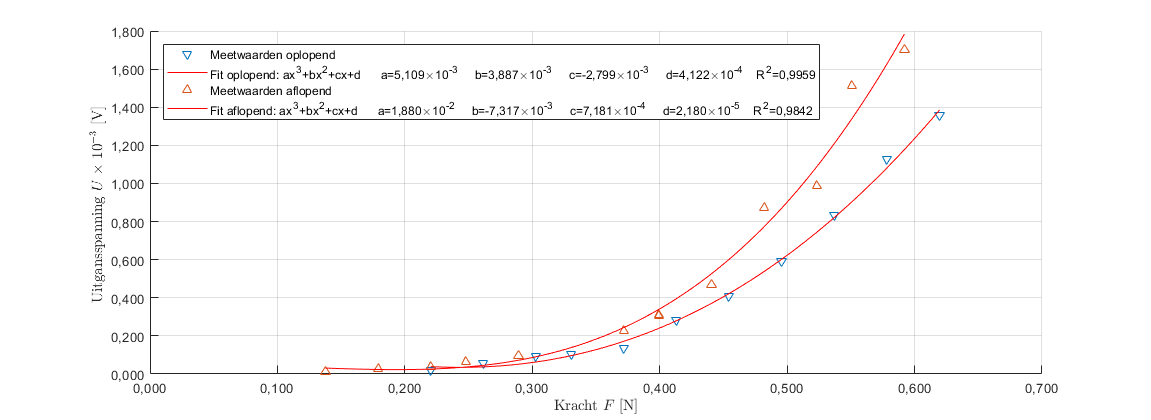
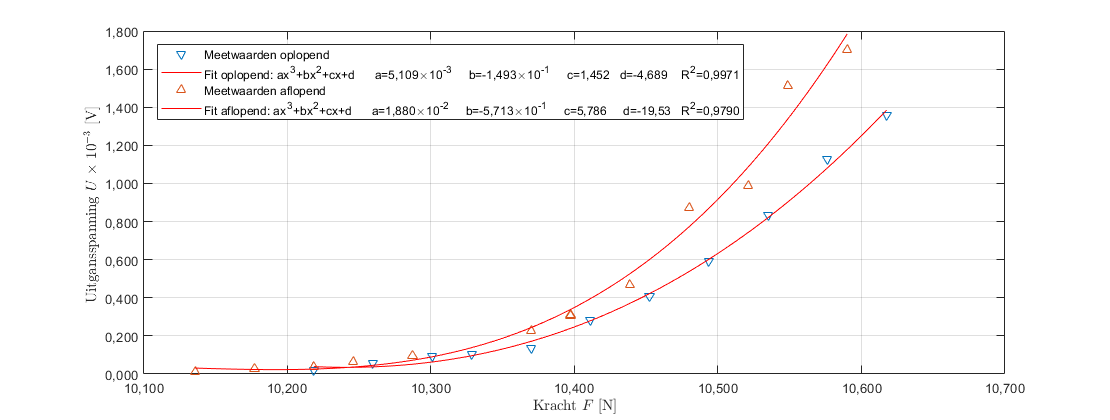
piezo final

diff --git a/Data/VO/frequentie metingen/resultaat.m b/Data/VO/frequentie metingen/resultaat.m
@@ -16,7 +16,7 @@ m_tot = massa + rust_massa;
 
 % kracht = omega.^2*r.*m_tot;
 a_z = r*omega;
-kracht = m_tot*a_z;
+kracht = m_tot*(a_z+9.81);
 
 % Hysteresis zichtbaar, dus arrays splitten voor heen en terugweg
 
@@ -39,11 +39,11 @@ gemeten_spanning_terug = gemeten_spanning(12:24);
 ft = fittype( 'poly3' );
 
 % Fit model to data.
-[fitresult1, gof] = fit( xData, yData, ft );
+[fitresult, gof] = fit( xData, yData, ft );
 
 % Plot fit with data.
+h = plot( fitresult, xData, yData, 'v' );
 hold on
-h1 = plot( fitresult1, xData, yData, 'v');
 %--------------------------------eind fit heen
 % -------------------------------Start fit terug
 %% Fit: 'untitled fit 1'.
@@ -61,12 +61,12 @@ h2 = plot( fitresult2, xData, yData, '^')
 hold on
 
 % labels & legend zelf aanpassen in createFit
-legend_fit_laaghoog = 'Fit oplopend: ax^3+bx^2+cx+d      a=5,109\times10^{-3}     b=3,887\times10^{-3}     c=-2,799\times10^{-3}     d=4,122\times10^{-4}    R^2=0,9959'
-legend_fit_hooglaag = 'Fit aflopend: ax^3+bx^2+cx+d      a=1,880\times10^{-2}     b=-7,317\times10^{-3}     c=7,181\times10^{-4}     d=2,180\times10^{-5}    R^2=0,9842'
-% legend('Meetwaarden oplopend', legend_fit_laaghoog, 'Meetwaarden aflopend',legend_fit_hooglaag, 'Interpreter', 'latex', 'Location' ,'NorthWest')
-legend('Meetwaarden oplopend','Fit oplopend','Meetwaarden aflopend', 'Fit aflopend', 'Interpreter', 'latex', 'Location' ,'NorthWest')
+legend_fit_laaghoog = 'Fit oplopend: ax^3+bx^2+cx+d      a=5,109\times10^{-3}     b=-1,493\times10^{-1}     c=1,452   d=-4,689    R^2=0,9971'
+legend_fit_hooglaag = 'Fit aflopend: ax^3+bx^2+cx+d      a=1,880\times10^{-2}     b=-5,713\times10^{-1}     c=5,786     d=-19,53   R^2=0,9790'
+legend('Meetwaarden oplopend', legend_fit_laaghoog, 'Meetwaarden aflopend',legend_fit_hooglaag, 'Interpreter', 'latex', 'Location' ,'NorthWest')
+% legend('Meetwaarden oplopend','Fit oplopend','Meetwaarden aflopend', 'Fit aflopend', 'Interpreter', 'latex', 'Location' ,'NorthWest')
 
-xlim([0 0.7])
+% xlim([0 0.7])
 % Correcte significantie maken voor plot 1
 xtickformat('%.3f')
 ytickformat('%.3f')

diff --git a/Data/VO/frequentie metingen/fit_heen.m b/Data/VO/frequentie metingen/fit_heen.m
@@ -11,7 +11,7 @@ function [fitresult, gof] = createFit(kracht_heen, gemeten_spanning_heen)
 %
 %  See also FIT, CFIT, SFIT.
 
-%  Auto-generated by MATLAB on 10-Jan-2018 12:17:53
+%  Auto-generated by MATLAB on 11-Jan-2018 16:44:22
 
 
 %% Fit: 'untitled fit 1'.
@@ -25,7 +25,6 @@ ft = fittype( 'poly3' );
 
 % Plot fit with data.
 figure( 'Name', 'untitled fit 1' );
-hold on
 h = plot( fitresult, xData, yData );
 legend( h, 'gemeten_spanning_heen vs. kracht_heen', 'untitled fit 1', 'Location', 'NorthEast' );
 % Label axes

diff --git a/Data/VO/frequentie metingen/fit_terug.m b/Data/VO/frequentie metingen/fit_terug.m
@@ -11,7 +11,7 @@ function [fitresult, gof] = createFit(kracht_terug, gemeten_spanning_terug)
 %
 %  See also FIT, CFIT, SFIT.
 
-%  Auto-generated by MATLAB on 10-Jan-2018 12:24:13
+%  Auto-generated by MATLAB on 11-Jan-2018 16:44:11
 
 
 %% Fit: 'untitled fit 1'.
